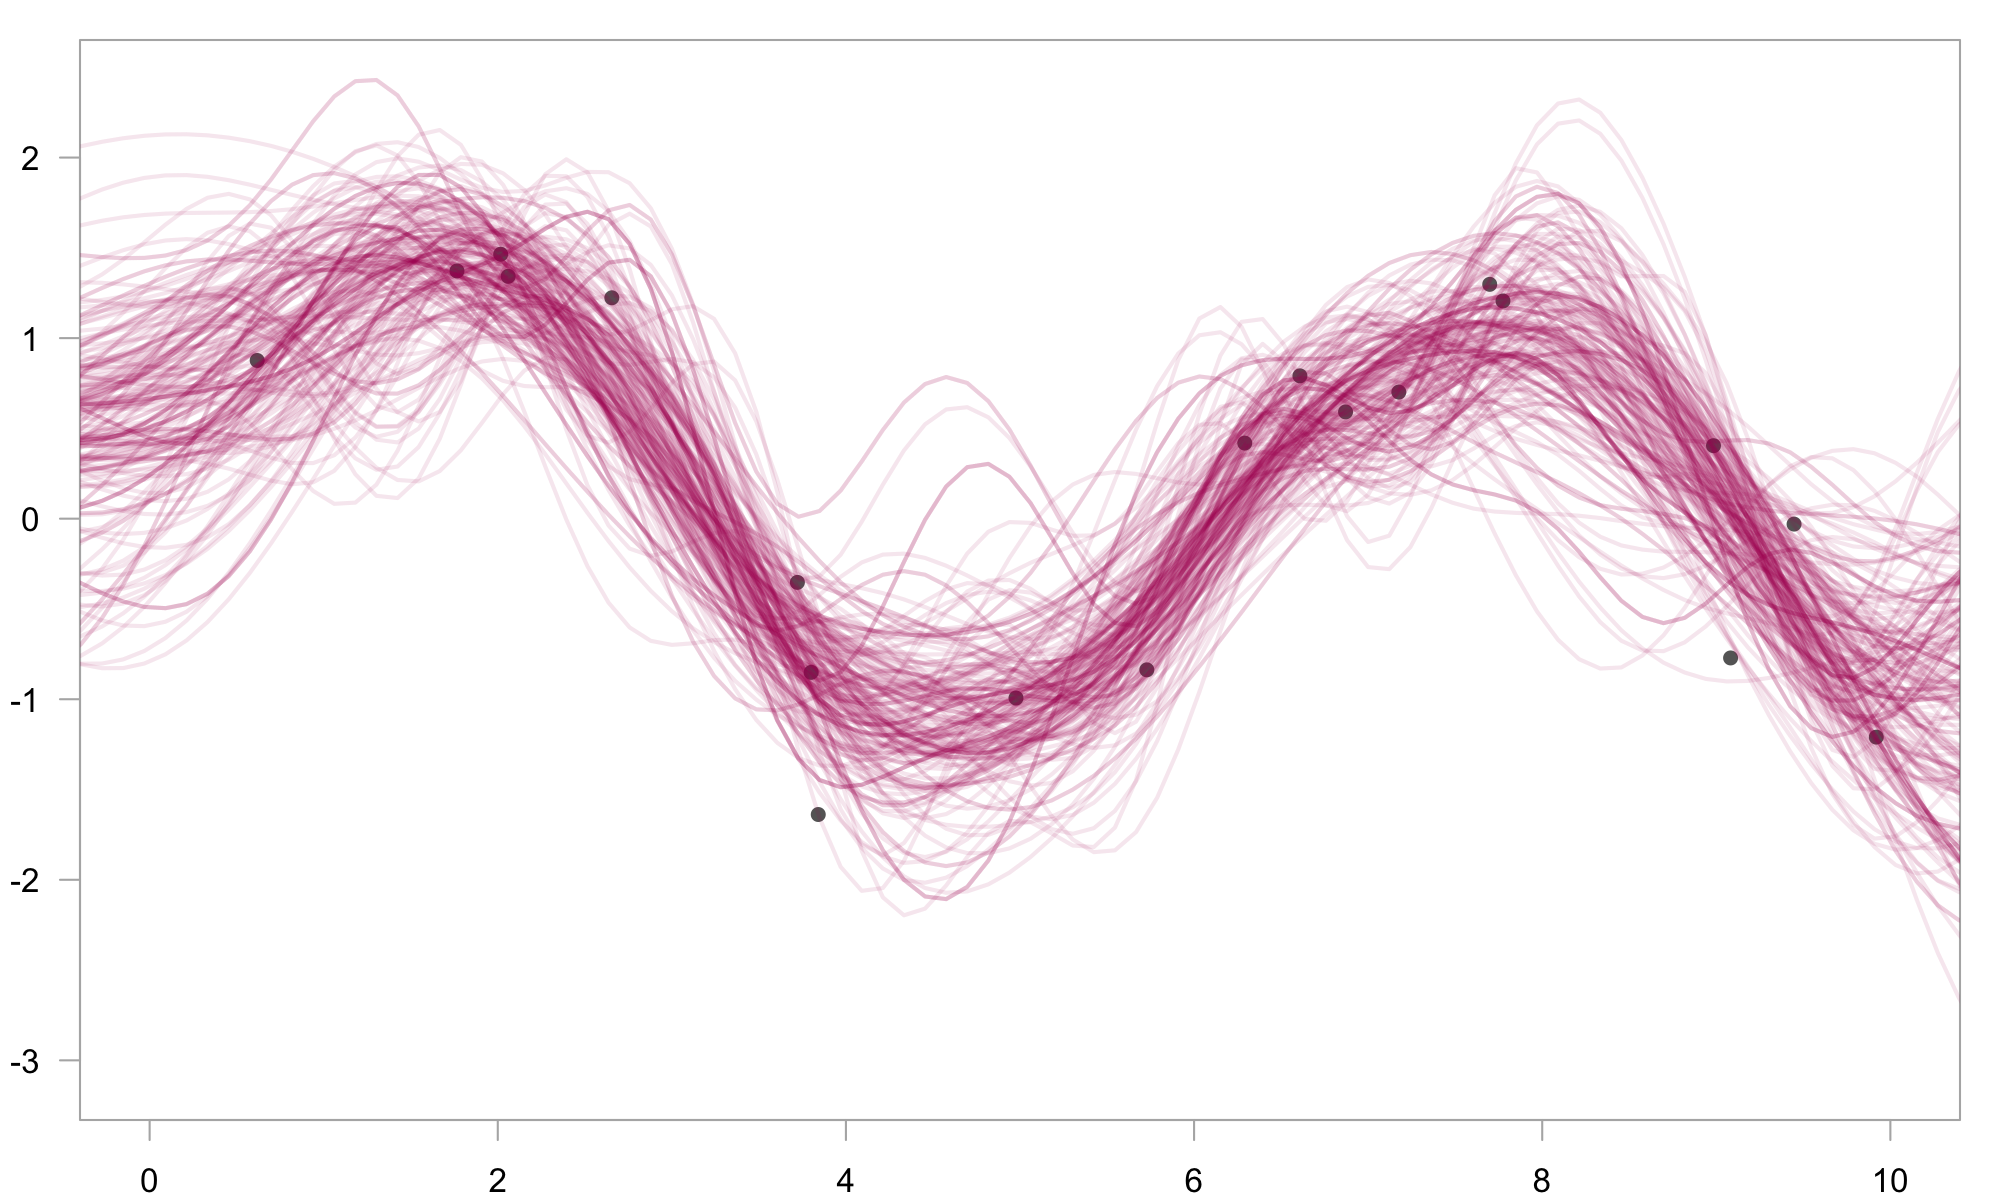
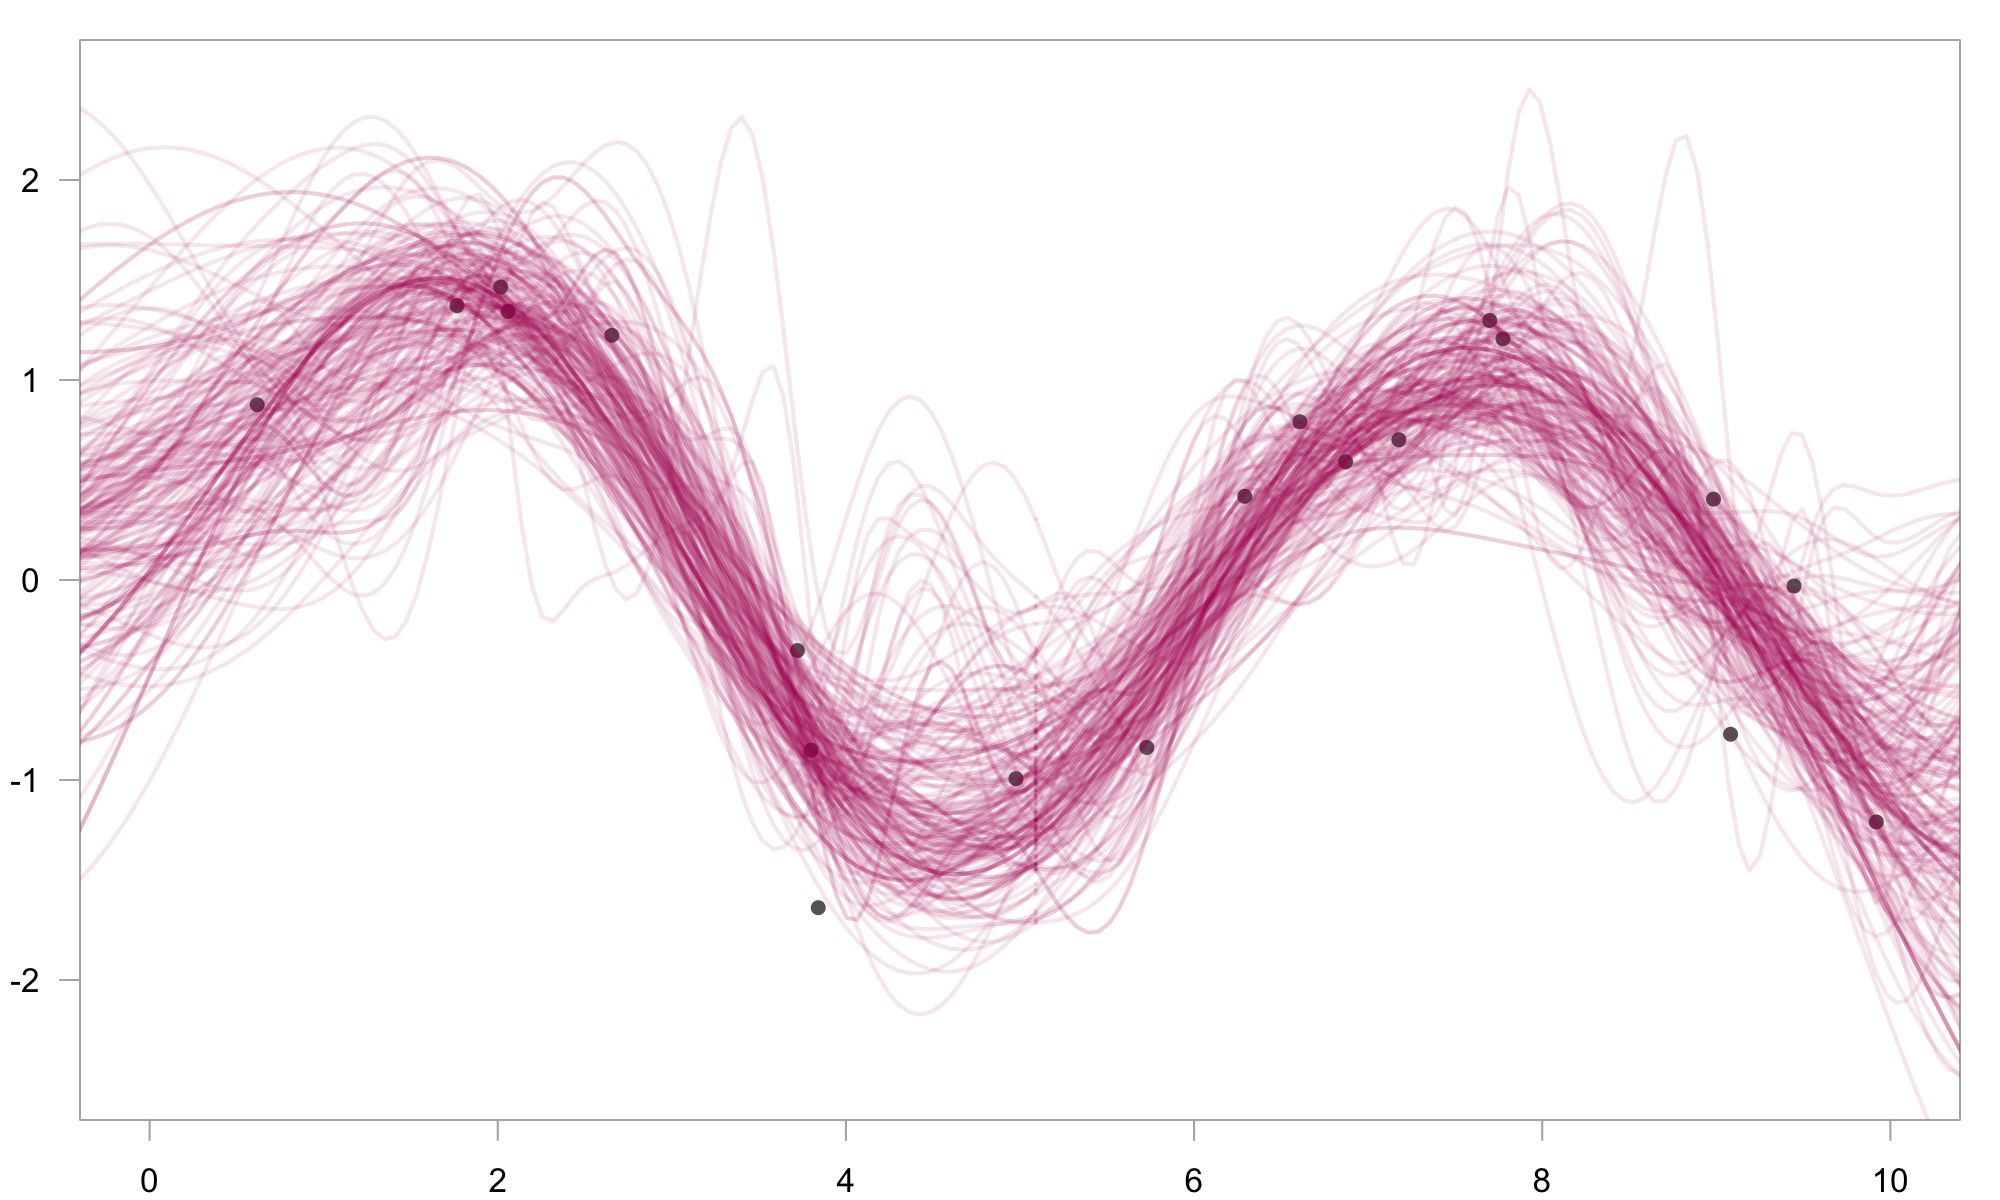
update readme

Changed region(s): [[0.0, 0.0617, 0.992, 0.8942]]

diff --git a/README.md b/README.md
@@ -1,20 +1,23 @@
 gretaGP
--------
+=======
 
-#### Gaussian processes in greta
+### Gaussian processes in greta
 
-gretaGP extends greta to let you define Gaussian processes as part of your model.
+gretaGP extends greta to let you define Gaussian processes as part of your model. It provides a syntax to create and combine GP kernels, and use them to define either full rank or sparse Gaussian processes.
 
-##### example
+[![build status](https://travis-ci.org/greta-dev/gretaGP.svg?branch=master)](https://travis-ci.org/greta-dev/gretaGP) [![codecov.io](https://codecov.io/github/greta-dev/gretaGP/coverage.svg?branch=master)](https://codecov.io/github/greta-dev/gretaGP?branch=master)
+
+#### Example
 
 ``` r
 # simulate data
 x <- runif(20, 0, 10)
 y <- sin(x) + rnorm(20, 0, 0.5)
-x_plot <- seq(-1, 11, length.out = 100)
+x_plot <- seq(-1, 11, length.out = 200)
 ```
 
 ``` r
+library (greta)
 library (gretaGP)
 
 # hyperparameters
@@ -22,26 +25,26 @@ rbf_var = lognormal(0, 1)
 rbf_len = lognormal(0, 1)
 obs_sd = lognormal(0, 1)
 
-# kernel
-k1 <- rbf(rbf_len, rbf_var)  # wiggly kernel
-k2 <- bias(1) + linear(1)  # linear kernel
-k <- k1 + k2  # combined kernel
+# kernel & GP
+kernel <- rbf(rbf_len, rbf_var) + bias(1)
+f = gp(x, kernel)
 
-# GP, likelihood & predictions
-f = gp(x, k, tol = 1e-4)
+# likelihood
 distribution(y) = normal(f, obs_sd)
+
+# prediction
 f_plot <- project(f, x_plot)
 ```
 
 ``` r
-# fit
+# fit the model by Hamiltonian Monte Carlo
 m <- model(f_plot)
 draws <- mcmc(m, n_samples = 200)
 ```
 
 ``` r
-# plot
-plot(y ~ x, pch = 16, col = grey(0.4), xlim = c(0, 10), ylim = range(draws[[1]]))
+# plot 200 posterior samples
+plot(y ~ x, pch = 16, col = grey(0.4), xlim = c(0, 10), ylim = c(-2.5, 2.5))
 for (i in 1:200) {
   lines(draws[[1]][i, ] ~ x_plot,
         lwd = 2,
@@ -51,16 +54,16 @@ for (i in 1:200) {
 
 ![](README_files/figure-markdown_github/plotting-1.png)
 
-##### installation
+#### Installation
 
-This package currently depends on the GPflow python package and the gpflowr R package, both of which must be installed before gretaGP will run.
+This package depends on the python package [GPflow](https://github.com/GPflow/GPflow), the R package [gpflowr](https://github.com/goldingn/gpflowr), and version 0.2.2 or higher of [greta](https://github.com/greta-dev/greta).
 
-You can install GPflow with pip by typing something like this at a command prompt:
+You can install GPflow by typing something like this at a command prompt:
 
     git clone https://github.com/GPflow/GPflow.git
     cd GPflow && python setup.py install && cd ..
 
-You can install gpflowr, the latest version of greta, and this package with the following R commands:
+and you can install the R packages from within R using [devtools](https://CRAN.R-project.org/package=devtools):
 
 ``` r
 library (devtools)
@@ -68,5 +71,3 @@ install_github("goldingn/gpflowr")
 install_github("greta-dev/greta")
 install_github("greta-dev/gretaGP")
 ```
-
-[![build status](https://travis-ci.org/greta-dev/gretaGP.svg?branch=master)](https://travis-ci.org/greta-dev/gretaGP) [![codecov.io](https://codecov.io/github/greta-dev/gretaGP/coverage.svg?branch=master)](https://codecov.io/github/greta-dev/gretaGP?branch=master)
